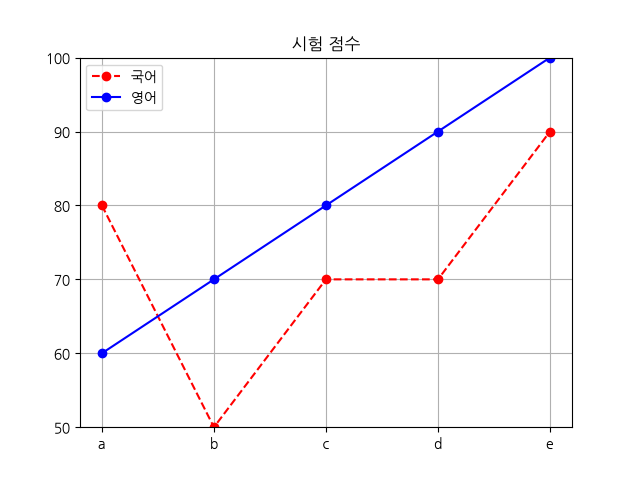
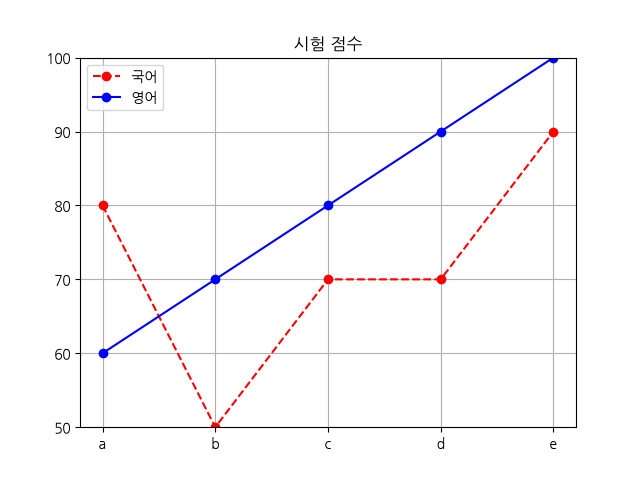
10-21

diff --git a/pandas_ex8/templates/dbshow.html b/pandas_ex8/templates/dbshow.html
@@ -1,0 +1,37 @@
+<!DOCTYPE html>
+<html lang="en">
+<head>
+    <meta charset="UTF-8">
+    <meta name="viewport" content="width=device-width, initial-scale=1.0">
+    <title>Document</title>
+</head>
+<body>
+    <h2>직원 자료, 직급별 연봉 통계</h2>
+    <a href="/">메인 페이지</a>
+    <br><br>
+    <form action="/dbshow" method="get">
+        <label for="dept">부서명:</label>
+        <input type="text" name="dept" placeholder="예)총무부">
+        <button type="submit">조회</button>
+    </form>
+    <hr>
+    <h3>직원 목록</h3>
+    {{jikwondata | safe}}
+
+    <h3>직급별 연봉 총계</h3>
+    {{statsdata | safe}}
+
+    <h3>부서명별 연봉합, 평균</h3>
+    <img src="/static/image/buser_pay.png" alt="부서명별 연봉">
+
+    <h3>성별 직급별 인원수</h3>
+    {{crossdata | safe}}
+
+    <h3>부서별 최고 연봉자</h3>
+    {{topdata | safe}}
+
+    <h3>부서별 직원 비율 계산 : 전체 인원 대비 각 부서 인원 비율</h3>
+    {{ratiodata | safe}}
+
+</body>
+</html>

diff --git a/pandas_ex8/templates/index.html b/pandas_ex8/templates/index.html
@@ -1,0 +1,13 @@
+<!DOCTYPE html>
+<html lang="en">
+<head>
+    <meta charset="UTF-8">
+    <meta name="viewport" content="width=device-width, initial-scale=1.0">
+    <title>Document</title>
+</head>
+<body>
+    <h3>회사 내 인사 자료 조회</h3>
+    <a href="/dbshow">db 조회 페이지로 이동</a>
+    
+</body>
+</html>

diff --git a/pandas_ex8/app.py b/pandas_ex8/app.py
@@ -1,0 +1,116 @@
+from flask import Flask, render_template, request
+import pymysql
+import pandas as pd
+import numpy as np
+from markupsafe import escape
+import koreanize_matplotlib
+import matplotlib.pyplot as plt
+
+#문자열의 HTML 특수문자를 안전하게 바꾸는 함수,  <, > 등을 &lt;, &gt;로 바꿔서 브라우저가 코드를 실행하지 않고 글자로 표시한다
+
+#직원 번호, 직원명, 부서명, 부서전화, 연봉, 직급 자료 읽어 출력
+
+app = Flask(__name__)
+
+config = {
+    'host':'127.0.0.1',
+    'user':'root',
+    'password':'123',
+    'database':'test',
+    'port':3306,
+    'charset':'utf8mb4'
+}  #원래는 env 써야함
+
+def get_connection():
+    return pymysql.connect(**config)
+
+@app.route("/")
+def index():
+    return render_template("index.html")
+
+@app.route("/dbshow", methods=['GET', 'POST'])
+def dbshow():
+    #부서명을 입력받아 해당 부서에 근무 직원 출력 
+    dept = request.args.get("dept","").strip()
+    sql = """
+        select j.jikwonno as 사번,j.jikwonname as 직원명,b.busername as 부서명,
+        j.jikwonjik as 직급,j.jikwonpay as 연봉, year(now()) - year(j.jikwonibsail) as 근무년수, j.jikwongen as 성별
+        from jikwon j inner join buser b on j.busernum=b.buserno 
+    """ 
+    params = []
+    if dept:
+        sql += " where b.busername like %s"
+        params.append(f"{dept}%")
+    sql += " order by j.jikwonno asc"
+
+    # SQL 실행
+    with get_connection() as conn:
+        with conn.cursor() as cur:
+            cur.execute(sql, params)
+            rows = cur.fetchall()
+            cols = [c[0] for c in cur.description] #description 칼럼등 여러 정보를 반환
+
+    df = pd.DataFrame(rows, columns=cols)
+    # print(df.to_html(index=False))
+
+    #DataFrame을 table tag로 만들기
+    if not df. empty:
+        jikwondata = df[['사번','직원명', '부서명','직급','연봉','근무년수']].to_html(index=False)
+    else:
+        jikwondata = "직원 정보가 없어요"
+
+   
+    # 직급별 연봉 통계
+    if not df.empty:
+        stats_df = (
+            df.groupby("직급")["연봉"]
+            .agg(합계="sum", 평균="mean")
+            .round(2)
+            .reset_index()
+            .sort_values(by='평균', ascending=False)
+    )
+        statsdata = stats_df.to_html(index=False)
+    else:
+        statsdata = "통계 대상 자료가 없어요"
+        
+
+    # 성별 직급별 직원 수 교차표 
+    if not df.empty:
+        crosst = pd.crosstab(
+            index=df['성별'], columns=df['직급'], margins=True, margins_name='합계'
+        )
+        crossdata = crosst.to_html()
+    else:
+        crossdata = "교차표 대상 자료가 없어요"
+
+
+    # 부서별 최고 연봉자
+    if not df.empty:
+        maxpay = df.groupby('부서명')['연봉'].max()      # 최댓값
+        top_df = pd.merge(df, maxpay, on=['부서명', '연봉'])        # 부서명과 연봉이 둘 다 같은 직원만 남김 inner join 같은느낌
+        topdata = top_df[['부서명', '직원명', '직급', '연봉']].to_html(index=False)
+    else:
+        topdata = "최고 연봉자 자료가 없어요"
+
+
+
+    #부서별 직원 비율 계산 : 전체 인원 대비 각 부서 인원 비율
+
+    if not df.empty:
+        total = len(pd.read_sql("select * from jikwon", get_connection())) #전체 가져오기 len(df) 쓰면 비율 이상하게 나옴
+        dept_count = df.groupby('부서명')['직원명'].count() #부서별 직원 수
+        dept_ratio = (dept_count / total * 100).round(2) #부서별 직원 비율 계산
+        ratiodata = dept_ratio.reset_index().to_html(index=False)
+    else:
+        ratiodata = "비율 대상 자료가 없어요" 
+    
+    return render_template("dbshow.html", jikwondata=jikwondata, statsdata=statsdata, crossdata=crossdata, topdata=topdata, ratiodata=ratiodata)
+
+
+  
+
+
+if __name__ == '__main__':
+    app.run(debug=True)
+
+

diff --git a/mplot5bike.py b/mplot5bike.py
@@ -1,0 +1,75 @@
+# 자전거 공유 시스템 분석용
+#  : kaggle 사이트의 Bike Sharing in Washington D.C. Dataset를 편의상 조금 변경한 dataset을 사용함
+# columns : 
+#  'datetime', 
+#  'season'(사계절:1,2,3,4), 
+#  'holiday'(공휴일(1)과 평일(0)), 
+#  'workingday'(근무일(1)과 비근무일(0)), 
+#  'weather'(4종류:Clear(1), Mist(2), Snow or Rain(3), Heavy Rain(4)), 
+#  'temp'(섭씨온도), 'atemp'(체감온도), 
+#  'humidity'(습도), 'windspeed'(풍속), 
+#  'casual'(비회원 대여량), 'registered'(회원 대여량), 
+#  'count'(총대여량)
+
+import pandas as pd
+import numpy as np
+import matplotlib.pyplot as plt
+import seaborn as sns
+import koreanize_matplotlib
+from scipy import stats
+
+plt.style.use('ggplot') # r의 ggplot style 사용
+
+train = pd.read_csv('https://raw.githubusercontent.com/pykwon/python/refs/heads/master/data/train.csv', parse_dates=['datetime'])
+pd.set_option('display.width', None)
+
+print(train.info())
+print(train.dtypes)
+print(train.shape)
+print(train.columns)
+print(train.head(3))
+print(train.temp.describe())
+print(train.isnull(). sum())
+
+# 년월일시분초 별도 칼럼 추가
+train['year'] = train['datetime'].dt.year   # dt 연산자 사용
+train['month'] = train['datetime'].dt.month
+train['day'] = train['datetime'].dt.day
+train['hour'] = train['datetime'].dt.hour
+train['minute'] = train['datetime'].dt.minute
+train['second'] = train['datetime'].dt.second
+print(train.head(2))
+print(train.columns)
+
+# 대여량 시각화
+figure, (ax1, ax2, ax3, ax4) = plt.subplots(nrows=1, ncols=4)
+figure.set_size_inches(15, 5)
+sns.barplot(data=train, x='year', y='count', ax=ax1)
+sns.barplot(data=train, x='month', y='count', ax=ax2)
+sns.barplot(data=train, x='day', y='count', ax=ax3)
+sns.barplot(data=train, x='hour', y='count', ax=ax4)
+ax1.set(ylabel='대여수', title='년도별 대여')
+ax2.set(ylabel='월', title='월별 대여')
+ax3.set(ylabel='일', title='일별 대여')
+ax4.set(ylabel='시간', title='시간별 대여')
+plt.show()
+
+# boxplot : 기본 방향은 세로(orient='v')
+fig, axes = plt.subplots(nrows=2, ncols=2, figsize=(14,12))
+sns.boxplot(data=train, y='count', orient='v', ax=axes[0][0])
+sns.boxplot(data=train, y='count', x='season', orient='v', ax=axes[0][1])
+sns.boxplot(data=train, y='count', x='hour', orient='v', ax=axes[1][0])
+sns.boxplot(data=train, y='count', x='workingday', orient='v', ax=axes[1][1])
+axes[0][0].set(ylabel='대여수', title='대여')
+axes[0][1].set(xlabel='계절', ylabel='대여수', title='계절별 대여량')
+axes[1][0].set(xlabel='시간', ylabel='대여수', title='시간별 대여량')
+axes[1][1].set(xlabel='근무일', ylabel='대여수', title='근무일에 따른 대여량')
+plt.show()
+
+# 산점도 : regplot - 산정도와 회귀선 그리기 - (온도, 습도, 풍속)
+fig, (ax1, ax2, ax3) = plt.subplots(ncols=3, figsize=(12,5))
+sns.regplot(x='temp', y='count', data=train, ax=ax1)
+sns.regplot(x='humidity', y='count', data=train, ax=ax2)
+sns.regplot(x='windspeed', y='count', data=train, ax=ax3)
+plt.show()
+

diff --git a/pandas_ex8/chart.py b/pandas_ex8/chart.py
@@ -1,0 +1,42 @@
+import pymysql
+import pandas as pd
+import matplotlib.pyplot as plt
+import koreanize_matplotlib
+
+config = {
+    'host':'127.0.0.1',
+    'user':'root',
+    'password':'123',
+    'database':'test',
+    'port':3306,
+    'charset':'utf8'
+}
+
+try:
+    conn = pymysql.connect(**config)
+    sql = """
+    select busername 부서명, jikwonpay 연봉
+    from jikwon inner join buser
+    on jikwon.busernum=buser.buserno
+    """
+    df = pd.read_sql(sql, conn)
+
+    buser_pay = df.groupby('부서명')['연봉'].agg(['sum', 'mean'])
+    buser_pay.columns = ['연봉합', '연봉평균']
+    print(buser_pay)
+
+    # 세로 막대 그래프 
+    buser_pay.plot(kind='bar', rot=0)
+    plt.title('부서명별 연봉합, 평균')
+    plt.xlabel('부서명')
+    plt.ylabel('연봉')
+    plt.tight_layout()
+
+    fig = plt.gcf()
+    plt.show()
+    fig.savefig('static/image/buser_pay.png')
+
+except Exception as e:
+    print('처리 오류:', e)
+finally:
+    conn.close()

diff --git a/pandas17quiz7.py b/pandas17quiz7.py
@@ -26,7 +26,7 @@ conn = None
 
 try:
 #    conn = pymysql.connect(**config)
-    # - 사변 이름 부서명 성별 연봉을 읽어 dataframe을 작성
+    # - 사번 이름 부서명 성별 연봉을 읽어 dataframe을 작성
     sql = '''
         select jikwonno 사번, jikwonname 직원명, busername 부서명, jikwongen 성별, jikwonpay 연봉
         from jikwon inner join buser
@@ -61,3 +61,4 @@ except Exception as e:
 finally:
 #    conn.close()
     engine.dispose()
+

diff --git a/numpy1.py b/numpy1.py
@@ -110,7 +110,6 @@ print(dd[::2, ::2]) # 0행,2행의 0열, 2열 출력
 print(dd[-1, -1])   # 마지막행, 마지막 열 값 1개 출력 : 12
 print(dd[-1])       # 마지막행 출력 : [9 10 11 12]
 print(dd[:, -1])    # 모든행의 마지막열 출력 : [ 4  8 12]
+
 print(dd[::-1])     # 행역순
 print(dd[:, ::-1])  # 열역순
-
-
